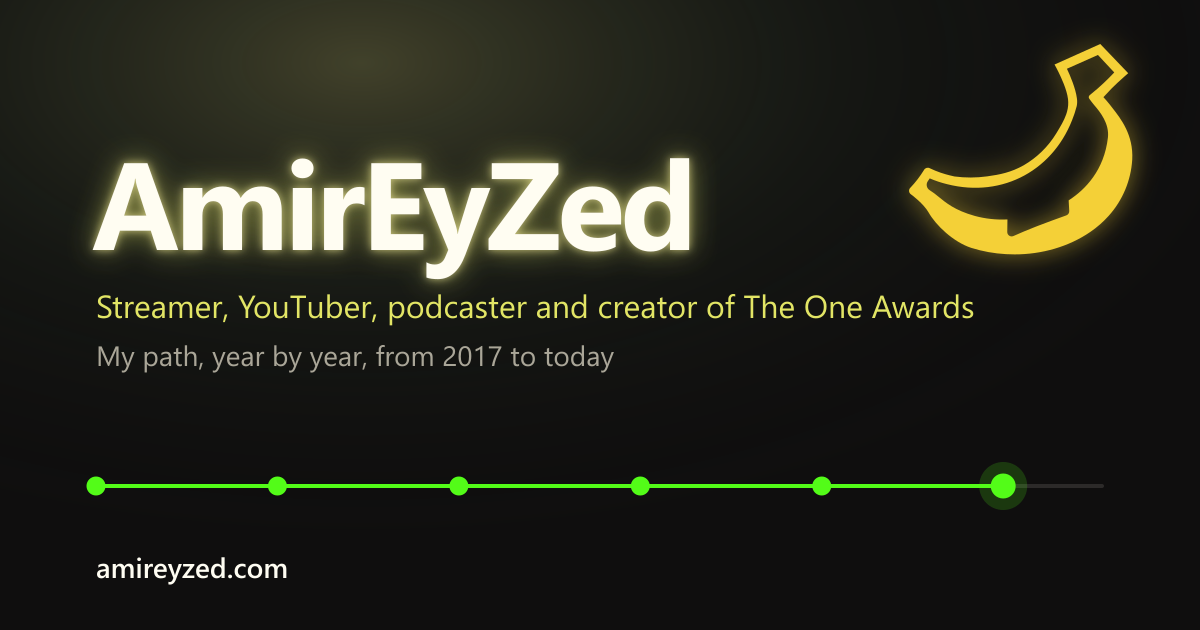
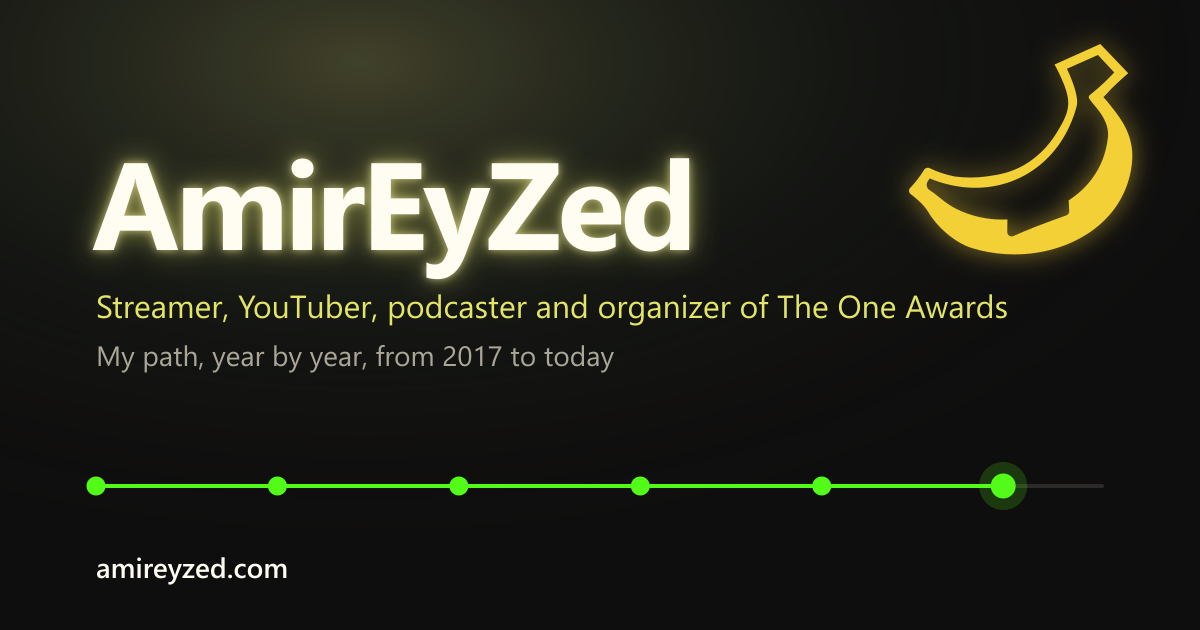
Stat cards that fit, no Arabic marks, clearer intro
- Stat numbers scale with their card and never spill out; the dd browser indent was the cause at 390px.
- Persian text drops the ezafe hamza, tanween, kasra and hamza on alef.
- "Organizer of The One Awards" replaces "creator"; the share image follows.
- The hero intro now says what the page holds, without repeating the year range.
- Years menu stays inside the screen at 320px and shows the current year.
- Stats name their sources and say that follows are not unique people.
- Records carry their source and comparison scope.

Changed region(s): [[0.4933, 0.4524, 0.8325, 0.5127]]

diff --git a/src/data/site.ts b/src/data/site.ts
@@ -19,12 +19,12 @@ export const site = {
     en: 'Amir EyZed',
   } satisfies Localized,
   tagline: {
-    fa: 'استریمر، یوتیوبر، پادکستر و سازندهٔ The One Awards',
-    en: 'Streamer, YouTuber, podcaster and creator of The One Awards',
+    fa: 'استریمر، یوتیوبر، پادکستر و برگزارکننده The One Awards',
+    en: 'Streamer, YouTuber, podcaster and organizer of The One Awards',
   } satisfies Localized,
   intro: {
-    fa: 'از تیمهای رقابتی رینبو سیکس روی PS4 تا لایوهای امروز روی کیک. این صفحه همون مسیره، سال به سال.',
-    en: 'From competitive Rainbow Six teams on PS4 to live shows on Kick today. This page is that path, year by year.',
+    fa: 'اینجا مسیر کاری من رو سال به سال میبینی: تیمهای رقابتی، لایوها، پادکستها، The One Awards، کار برای کامیونیتی و موضعهام. کنار هر اتفاق عکس و لینک اصلش هست و آخر صفحه، کل مسیر در چند عدد.',
+    en: 'Here you’ll find my career, year by year: competitive teams, live streams, podcasts, The One Awards, community work and the stances I took. Each moment comes with its photos and original links, and the end of the page sums it all up in numbers.',
   } satisfies Localized,
   /**
    * Closing line under "Today" at the end of the timeline.
@@ -63,18 +63,32 @@ export const site = {
       {
         value: { fa: '۳۲۶', en: '326K' },
         unit: { fa: 'هزار', en: '' },
-        label: { fa: 'دنبالکننده روی توییچ، یوتیوب و کیک', en: 'followers on Twitch, YouTube and Kick' },
+        label: { fa: 'مجموع دنبالکردنها در توییچ، یوتیوب و کیک', en: 'follows across Twitch, YouTube and Kick' },
       },
       {
         value: { fa: '۳۶٫۵', en: '36.5K' },
         unit: { fa: 'هزار', en: '' },
-        label: { fa: 'اوج بینندهٔ همزمان، The One Awards', en: 'peak concurrent viewers, The One Awards' },
+        label: { fa: 'اوج بیننده همزمان، The One Awards', en: 'peak concurrent viewers, The One Awards' },
+        /** The YouTube Studio screenshot sits in this milestone. */
+        href: '#2025-the-one-awards',
       },
     ],
-    note: {
-      fa: 'تا ۲۴ سپتامبر ۲۰۲۶. منبع: TwitchTracker، یوتیوب و کیک. ساعتهای لایو کیک توی این عددها حساب نشده.',
-      en: 'As of 24 September 2026. Sources: TwitchTracker, YouTube and Kick. Hours streamed on Kick are not included.',
-    } satisfies Localized,
+    asOf: { fa: 'تا ۲۴ سپتامبر ۲۰۲۶.', en: 'As of 24 September 2026.' } satisfies Localized,
+    /** Public pages where each number can be checked. */
+    sources: [
+      { label: { fa: 'آمار توییچ در TwitchTracker', en: 'Twitch stats on TwitchTracker' }, url: 'https://twitchtracker.com/amireyzed/statistics' },
+      { label: { fa: 'یوتیوب AmirEyZed', en: 'AmirEyZed on YouTube' }, url: 'https://www.youtube.com/@AmirEyZed' },
+      { label: { fa: 'یوتیوب EyZed Reacts', en: 'EyZed Reacts on YouTube' }, url: 'https://www.youtube.com/@EyZedMoments' },
+      { label: { fa: 'یوتیوب EyZed Gaming', en: 'EyZed Gaming on YouTube' }, url: 'https://www.youtube.com/@EyZedGaming' },
+      { label: { fa: 'کیک', en: 'Kick' }, url: 'https://kick.com/amireyzed' },
+    ],
+    notes: [
+      {
+        fa: 'دنبالکردنها در سه پلتفرم جمع زده شدهاند؛ یک نفر ممکنه چند بار حساب شده باشه.',
+        en: 'Follows are added up across the three platforms, so one person may be counted more than once.',
+      },
+      { fa: 'ساعتهای لایو کیک توی این عددها حساب نشده.', en: 'Hours streamed on Kick are not included.' },
+    ] satisfies Localized[],
   },
   /** Contact email. Empty = hidden everywhere. */
   email: '',

diff --git a/src/scripts/app.ts b/src/scripts/app.ts
@@ -70,13 +70,20 @@ document.fonts?.ready.then(measure);
 const yearLinks = Array.from(document.querySelectorAll<HTMLAnchorElement>('[data-year-link]'));
 let shownYear: string | null = null;
 
+const yearsCurrent = document.querySelector<HTMLElement>('[data-years-current]');
+
 function setCurrentYear(year: string) {
   if (year === shownYear) return;
   shownYear = year;
+  let label = '';
   for (const link of yearLinks) {
-    if (link.dataset.yearLink === year) link.setAttribute('aria-current', 'true');
-    else link.removeAttribute('aria-current');
+    if (link.dataset.yearLink === year) {
+      link.setAttribute('aria-current', 'true');
+      label = link.textContent?.trim() ?? label;
+    } else link.removeAttribute('aria-current');
   }
+  // On phones the years menu button shows the year you are reading.
+  if (yearsCurrent) yearsCurrent.textContent = label;
 }
 
 /** Scroll so a milestone (or Today) sits in the calm middle of the screen, below the sticky header. */

diff --git a/src/i18n/ui.ts b/src/i18n/ui.ts
@@ -34,8 +34,9 @@ export const ui = {
     'photo.next': 'عکس بعدی',
     'photo.viewer': 'نمایش عکس',
     'stats.title': 'کل مسیر در چند عدد',
+    'stats.sources': 'منبعها',
     'why': 'چرا مهمه؟',
-    'featured': 'لحظهٔ مهم',
+    'featured': 'لحظه مهم',
     'guests': 'مهمونهای مهم',
     'notfound.title': 'این صفحه پیدا نشد',
     'notfound.body': 'شاید آدرس اشتباه باشه یا صفحه جابهجا شده.',
@@ -65,6 +66,7 @@ export const ui = {
     'photo.next': 'Next photo',
     'photo.viewer': 'Photo viewer',
     'stats.title': 'The whole path in numbers',
+    'stats.sources': 'Sources',
     'why': 'Why it matters:',
     'featured': 'Key moment',
     'guests': 'Notable guests',

diff --git a/README.md b/README.md
@@ -1,14 +1,14 @@
 # amireyzed.com
 
-لندینگپیج شخصی امیر ایزد (AmirEyZed): مسیر کاری سال به سال، روی یک تایملاین. دو زبانه: فارسی در `/` و انگلیسی در `/en/`. ساختهشده با [Astro](https://astro.build)، خروجی کاملاً استاتیک.
+لندینگپیج شخصی امیر ایزد (AmirEyZed): مسیر کاری سال به سال، روی یک تایملاین. دو زبانه: فارسی در `/` و انگلیسی در `/en/`. ساختهشده با [Astro](https://astro.build)، خروجی کاملا استاتیک.
 
-## ایدهٔ طراحی
+## ایده طراحی
 
 - **فضا:** استودیوی امیر در شب. رنگها از اسکرینشات استریم نمونهبرداری شدهاند: تاریکی اتاق، نور لیمویی روی دیوار، نئون سفید و سبز Kick.
-- **چیدمان:** مثل صفحهٔ تاریخچهٔ nas.co. یک سیم در وسط که با اسکرول سبز روشن میشود و سالها و متنها یکی در میان دو طرفش قرار میگیرند.
-- **لنز شیشهای:** مثل رفرنس توییتر. نزدیک بالا و پایین صفحه، متنها خم و محو میشوند و حاشیهٔ رنگی قرمز و آبی میگیرند. این دو رنگ از تگهای چت کیک در همان اسکرینشات آمدهاند. اسکرول نرم با Lenis انجام میشود.
-- **تعامل با موس:** نور محیط دنبال نشانگر میآید و اسم نئونی به آن واکنش نشان میدهد. سالها زیر نشانگر حاشیهٔ رنگی و کمی چرخش میگیرند. دکمهها مغناطیسیاند و چراغ هر ردیف با هاور روشن میشود.
-- **دسترسپذیری:** با `prefers-reduced-motion` همهٔ حرکتها و لنز خاموش میشوند. بدون جاوااسکریپت هم همهٔ محتوا خوانا میماند.
+- **چیدمان:** مثل صفحه تاریخچه nas.co. یک سیم در وسط که با اسکرول سبز روشن میشود و سالها و متنها یکی در میان دو طرفش قرار میگیرند.
+- **لنز شیشهای:** مثل رفرنس توییتر. نزدیک بالا و پایین صفحه، متنها خم و محو میشوند و حاشیه رنگی قرمز و آبی میگیرند. این دو رنگ از تگهای چت کیک در همان اسکرینشات آمدهاند. اسکرول نرم با Lenis انجام میشود.
+- **تعامل با موس:** نور محیط دنبال نشانگر میآید و اسم نئونی به آن واکنش نشان میدهد. سالها زیر نشانگر حاشیه رنگی و کمی چرخش میگیرند. دکمهها مغناطیسیاند و چراغ هر ردیف با هاور روشن میشود.
+- **دسترسپذیری:** با `prefers-reduced-motion` همه حرکتها و لنز خاموش میشوند. بدون جاوااسکریپت هم همه محتوا خوانا میماند.
 
 ## اجرا در لوکال
 
@@ -17,11 +17,11 @@ npm install
 npm run dev
 ```
 
-سایت روی `http://localhost:4321` بالا میآید. نسخهٔ نهایی با `npm run build` ساخته میشود و خروجی در `dist/` است.
+سایت روی `http://localhost:4321` بالا میآید. نسخه نهایی با `npm run build` ساخته میشود و خروجی در `dist/` است.
 
 ## اضافه یا اصلاح کردن یک اتفاق
 
-هر اتفاق یک فایل در `src/content/timeline/` است، مثلاً `2027-something.yaml`:
+هر اتفاق یک فایل در `src/content/timeline/` است، مثلا `2027-something.yaml`:
 
 ```yaml
 year: 2027
@@ -37,7 +37,7 @@ why:                # اختیاری، یک جمله که چرا این اتفا
   fa: "..."
   en: "..."
 highlights:         # اختیاری
-  fa: ["عدد یا نکتهٔ کوتاه"]
+  fa: ["عدد یا نکته کوتاه"]
   en: ["A short number or point"]
 guests:             # اختیاری، مهمونهای مهم یه برنامه یا پادکست؛ هر کارت به قسمتش لینک میشه
   - name: { fa: "اسم", en: "Name" }
@@ -74,7 +74,7 @@ git add . && git commit -m "Add 2027" && git push
 
 ## دیپلوی
 
-هر push به شاخهٔ `main` با GitHub Actions بیلد و روی GitHub Pages منتشر میشود. تنظیماتش در `.github/workflows/deploy.yml` است.
+هر push به شاخه `main` با GitHub Actions بیلد و روی GitHub Pages منتشر میشود. تنظیماتش در `.github/workflows/deploy.yml` است.
 
 - ریپو: `AmirEyZed/amireyzed.github.io`
 - آدرس سایت: `https://amireyzed.com`. آدرس `amireyzed.github.io` هم به آن ریدایرکت میشود.
